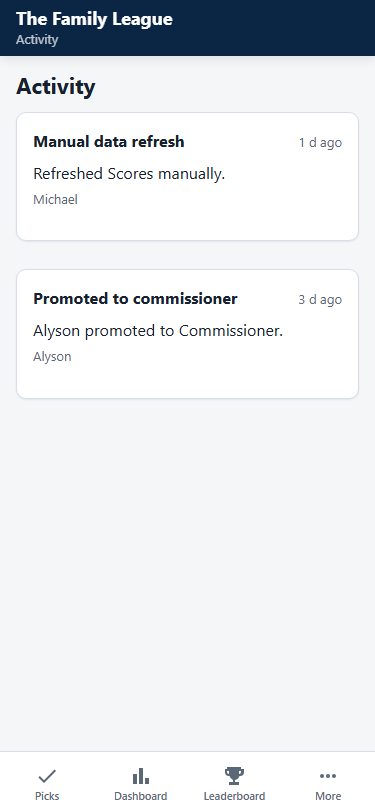
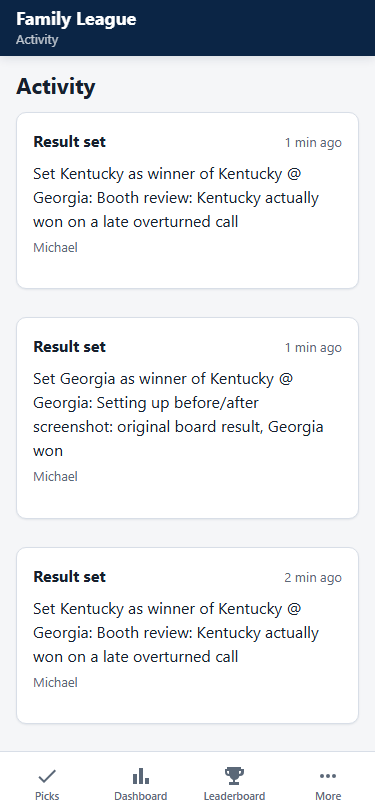
docs+fix(web): P5-02 error mapping, real-endpoint verification (P5-05)
Add GameNotFound to the friendly 404 mapping on both the corrections
menu and the Data status Void action now that P5-02's real endpoints
have merged. Verified end-to-end against the real Api: overriding a
locked week's result flips the real /weeks/{week}/leaderboard ranking
immediately, with no separate rescore step, confirming P5-01's
ResultOverriddenScoringHandler fires synchronously off the domain
event P5-02 raises. Replaces the fake-based audit/leaderboard
screenshots with real ones and adds a real before/after leaderboard
pair plus a real "Result set" week-view screenshot. Records D-148..
D-150 and updates STATUS.md/AGENT-NOTES.md accordingly.

diff --git a/Implementation/STATUS.md b/Implementation/STATUS.md
@@ -35,7 +35,7 @@ Live task board. The agent that owns a task updates its row. States: Todo, In Pr
 | P5-02 | Corrections: override result and void | sonnet-p5-02 | Sonnet | Done | p5-02-corrections | `Domain/Scoring/CorrectionRuleViolation` (`NotLocked`/`AlreadyVoided` 409, `TeamNotInGame`/other 400, `GameNotFound` 404) + `Api/Endpoints/CorrectionRuleViolationResults`. `Infrastructure/Services/CorrectionService` (`OverrideResultAsync`, `VoidGameAsync`, `GetAuditAsync`): both mutations load the locked row (`WeekGameSetLockGuard.IsFrozen`), write the `WeekGameSetGames` column + an `AuditLog` row (before/after/reason/scores, plus `gameId` in `Details` so the audit reader can resolve team names without a second table), `SaveChangesAsync`, then raise `ResultOverridden`/`GameVoided` (P5-01's handlers already subscribed, rescoring happens there — no scoring code added here). `GetAuditAsync` builds each `AuditEntry.Summary` per `AuditAction` (batched game-name and member-name lookups, JSON-parsed `Details`), covering every action type written so far (`ResultOverride`/`GameVoided`/`GameManuallyAdded`/`GameManuallyRemoved`/`MemberRemoved`/`RolePromoted`/`RoleDemoted`/`RoleTransferred`/`ManualRefresh`), "System" when the actor membership is missing. `Api/Endpoints/CorrectionEndpoints.cs` (`POST .../gameset/games/{gameId}/override-result`, `/void`, `GET /api/leagues/{leagueId}/audit`) with `OverrideResultRequestValidator`/`VoidGameRequestValidator` (Reason 1..200). Decision (documented, not a bug): a second identical override is not a no-op — it writes a fresh audit row and re-raises the event, since the rescore it triggers is idempotent anyway (D-143). `GameNeedsVoidReviewHandler : IDomainEventHandler<GameNeedsVoidReview>` added purely to quiet the dispatcher's "no handler" log — P3-04's `ListNeedsVoidReviewAsync`/`GET /api/admin/data-status` remain the mechanism, unchanged. `NeedsReviewGameDto` gained additive optional `WeekGameSetId`/`GameSetGameId` (both branches of `AdminEndpoints.GetDataStatusAsync`'s `NeedsReview` list now populate them) so P5-05's one-tap Void has the ids it needs without a second lookup. New tests: `OverrideTests` (8), `VoidTests` (7), `CorrectionsAuthMatrixTests` (3) — all against real HTTP endpoints, `ScoredWeekScenario` + `SaturdayPoller` snapshot 6 (own throwaway `SqlTestDatabase`, like `ScoringServiceTests`). `dotnet build` 0 warnings, `dotnet test` 737/737 green post-merge (292 Domain.Tests + 445 Api.Tests), `dotnet format --verify-no-changes` clean. Merged `main` through 559cebb (P5-04 leaderboard UI, P6-02 review fixes) — two conflicts, both append-only (`DECISIONS.md`/`STATUS.md` row/decision numbering), resolved by keeping both sides' content. Three hot-spot rows below. Opus review pending. |
 | P5-03 | Standings and leaderboard queries | | Opus | Todo | | |
 | P5-04 | Leaderboard UI | sonnet-p5-04 | Sonnet | Done | p5-04-leaderboard-ui | `Pages/Leaderboard/{Season,WeekPage,Grid}.razor` (routes: `/leagues/{id}/leaderboard`, `/leagues/{id}/weeks/{week}/leaderboard`, `/leagues/{id}/weeks/{week}/grid`) built against new `Web/Services/ILeaderboardApi`/`LeaderboardApi` (+ `Fakes/FakeLeaderboardApi`, D-136) — **P5-03's real endpoints have not merged**, so all screenshots are against the fake, same as P4-03/P6-03's own notes for their pages. New reusable `Components/`: `TrendArrow`, `WeekNav`, `PickGrid` (pinned first column + sticky header, D-137). Reused `ILeaguesApi.GetLeagueWeeksAsync` (P4-03's route) for week nav; `FakeLeaguesApi`'s implementation now delegates to `FakeLeaderboardApi.BuildLeagueWeeks()` (resolved a merge conflict against P4-03's simpler version — see D-136 for why it is safe). `BottomTabBar`'s Leaderboard tab already routed to `/leagues/{id}/leaderboard` from P1-02, so no wiring change was needed there. `dotnet build` 0 warnings (with and without `USE_FAKE_API`), `dotnet test` 719/719 green post-merge (292 Domain.Tests + 427 Api.Tests), `dotnet format --verify-no-changes` clean. Merged `main` through `5fe3182` (P5-01 week scorer, P6-02/P6-03 dashboard, P4-03 picks) mid-task; four additive-shaped conflicts (`DependencyInjection.cs`'s two `#if` branches, `_Imports.razor`'s two `@using` lines, `ILeaguesApi.cs`'s doc comment, `FakeLeaguesApi.GetLeagueWeeksAsync`'s body — the one real semantic choice, D-136) resolved and re-tested; no leftover conflict markers. Screenshots (375px, `document.documentElement.scrollWidth === 375` on every one): `Implementation/screenshots/p5-04-{season,week,grid,grid-scrolled,grid-prelock}-375.png` — `grid-scrolled` shows the pinned "Game" column and matchup text still in place while the member columns scroll underneath (headless Chromium, D-137). **Manual pending (operator): iOS Safari pinned-column check** — no physical device or simulator in this environment; the sticky-positioning CSS includes the `-webkit-sticky` fallback and no ancestor `overflow` sits between the scroll container and the pinned cells, and the headless-Chromium mid-scroll screenshot above is the best available substitute. Steps for the operator: open the grid page on an iPhone in Safari, scroll the grid horizontally, and confirm the "Game" column (matchup + result) stays pinned on the left edge throughout. |
-| P5-05 | Commissioner corrections UI and audit view | sonnet-p5-05 | Sonnet | Done with notes | p5-05-corrections-ui | New `Web/Services/ICorrectionsApi`/`CorrectionsApi` (+ `Fakes/FakeCorrectionsApi`, D-143) for the override-result/void/audit routes in `03-API-Contracts.md` (Feature 06) — **P5-02's real server endpoints have not merged** (confirmed: no `override-result`/`void`/`audit` routes anywhere under `src/NcaafPickEm.Api`), so this task builds and screenshots entirely against the fake, same pattern as P4-03/P5-04/P6-03's own notes for their pages when their server side landed later. `Pages/GameSets/WeekGames.razor` (commissioner, P3-05's page): once `WeekGameSetResponse.IsLocked`, each game's trailing slot swaps to either a "Voided" pill, a "Result set: <winner>" pill, or a "Correct" button opening a `BottomSheet` menu with "Set result" (two `TeamPickButton`s + a 1..200-char reason, `TeamPickButton` reused as-is) and "Void game" (reason only, destructive). Both actions refetch the week set on success so the row updates immediately without a page reload (screenshotted before/after: `p5-05-week-corrections-375.png` shows the open Correct menu, `p5-05-leaderboard-after-override-375.png` shows the same row reading "Result set: Georgia" right after confirming — this is the week view, not P5-04's leaderboard page, because a correction changing the *real* scored leaderboard needs P5-02's endpoints to exist, which they do not yet; see the open item below). New `Pages/Audit/AuditPage.razor` at `/leagues/{id}/audit` (all members, not commissioner-gated): newest-first cards with a humanised action label (`AuditAction` enum name -> "Result set"/"Game voided"/etc.), relative time (absolute on hover via `title`), actor, and the server-built summary; empty state when there is nothing yet. `Pages/Admin/DataStatusPage.razor`'s needs-review rows get a one-tap "Void" action (`BottomSheet`, reason required, red confirm) plus a "View activity log" link to the league's audit page; `FakeAdminApi` now takes `FakeGameSetStore` so its seeded needs-review row (Iowa State/Kansas tie) shares the same `GameId` the store's `VoidGame` operates on, and disappears from the list once voided (screenshotted: `p5-05-needs-review-void-375.png`). `LeagueHome` gets an "Activity" link next to Invites/Members. `FakeGameSetStore.OverrideResult`/`VoidGame` map to the same 409 `NotLocked`/`AlreadyVoided`/400 `TeamNotInGame` titles the real endpoints will use (per `03-API-Contracts.md`), and both the week view and Data status page translate those titles to friendly messages rather than showing the raw title. `dotnet build` 0 warnings both configs (plain and `-p:DefineConstants=DEBUG%3BTRACE%3BUSE_FAKE_API`), `dotnet test` 755/755 green post-merge (306 Domain.Tests + 449 Api.Tests — no Web test project exists in this repo, matching every prior Blazor task), `dotnet format --verify-no-changes` clean. Screenshots (375x812, `document.documentElement.scrollWidth === 375` on every one, taken against a published, hosted real Api with a temporarily fake-enabled Web build per D-044/D-127's `USE_FAKE_API_SCREENSHOT_TEMP` escape hatch, reverted before this commit): `Implementation/screenshots/p5-05-{week-corrections,set-result-sheet,audit,needs-review-void,leaderboard-after-override}-375.png`. Merged `main` through 095238e (P5-03/P5-04 leaderboard landing); two additive conflicts (`DependencyInjection.cs`'s two `#if` branches, `_Imports.razor`'s `Leaderboard`/`Scoring` usings, both kept side by side) resolved and re-tested, no leftover conflict markers. Hot-spot rows below (`_Imports.razor`, `DependencyInjection.cs`, both own commits). Also performed the P6-03 real-endpoint dashboard verification hand-off — see that row's added note below. D-143..D-145 logged. |
+| P5-05 | Commissioner corrections UI and audit view | sonnet-p5-05 | Sonnet | Done | p5-05-corrections-ui | New `Web/Services/ICorrectionsApi`/`CorrectionsApi` (+ `Fakes/FakeCorrectionsApi`, D-149) for the override-result/void/audit routes in `03-API-Contracts.md` (Feature 06). Built initially against the fake (P5-02's server endpoints had not merged yet — same pattern as P4-03/P5-04/P6-03's own notes), then **P5-02 merged mid-task and this branch switched to verifying the real endpoints** (see the open item below and D-148/D-150). `Pages/GameSets/WeekGames.razor` (commissioner, P3-05's page): once `WeekGameSetResponse.IsLocked`, each game's trailing slot swaps to either a "Voided" pill, a "Result set: <winner>" pill, or a "Correct" button opening a `BottomSheet` menu with "Set result" (two `TeamPickButton`s + a 1..200-char reason, `TeamPickButton` reused as-is) and "Void game" (reason only, destructive). Both actions refetch the week set on success so the row updates immediately without a page reload. New `Pages/Audit/AuditPage.razor` at `/leagues/{id}/audit` (all members, not commissioner-gated): newest-first cards with a humanised action label (`AuditAction` enum name -> "Result set"/"Game voided"/etc.), relative time (absolute on hover via `title`), actor, and the server-built summary; empty state when there is nothing yet. `Pages/Admin/DataStatusPage.razor`'s needs-review rows get a one-tap "Void" action (`BottomSheet`, reason required, red confirm) plus a "View activity log" link to the league's audit page (D-150: calls straight through on `row.GameId`, the route's actual param, not P5-02's additive `WeekGameSetId`/`GameSetGameId`); `FakeAdminApi` now takes `FakeGameSetStore` so its seeded needs-review row (Iowa State/Kansas tie) shares the same `GameId` the store's `VoidGame` operates on, and disappears from the list once voided. `LeagueHome` gets an "Activity" link next to Invites/Members. Friendly 409/400/404 messages (`NotLocked`/`AlreadyVoided`/`TeamNotInGame`/`GameNotFound`) on both the week view and Data status page. `dotnet build` 0 warnings both configs (plain and `-p:DefineConstants=DEBUG%3BTRACE%3BUSE_FAKE_API`), `dotnet test` 771/771 green post-merge (306 Domain.Tests + 465 Api.Tests — no Web test project exists in this repo, matching every prior Blazor task), `dotnet format --verify-no-changes` clean. **Real-endpoint verification of "override changes the leaderboard immediately"**: published `NcaafPickEm.Api` plain-Release against fixtures, dev-logged-in as `michael`, hand-built week 7's set (default rules were empty; `POST .../gameset/games` once), seeded two members' picks and settled their `WeekSubmissions.Status=Locked` via `sqlcmd` (the real pick-mutation routes 409 `WeekNotCurrent` today per D-121's clock-drift note — real wall clock is week 3, fixture week 7 is anchored to 2026-10-17), set `WeekGameSets.LockedUtc` via `sqlcmd`, then called the real `POST .../override-result` three times in a row (Kentucky, then Georgia, then Kentucky again) and re-read `GET .../weeks/7/leaderboard` after each: the ranking flips **Alyson 10/Michael 0 <-> Michael 10/Alyson 0** every time, immediately, with no separate rescore step — confirms P5-01's `ResultOverriddenScoringHandler` really does fire synchronously off the domain event P5-02 raises. Screenshotted the real `/leagues/{id}/weeks/7/leaderboard` page before and after (`p5-05-leaderboard-{before,after}-override-375.png`) and the real audit trail (`p5-05-audit-375.png`, all real `ResultOverride`/`GameManuallyAdded` rows) and the real week view showing "Result set: Kentucky" (`p5-05-week-result-set-real-375.png`). The interactive-sheet screenshots (`p5-05-week-corrections-375.png` with the Correct menu open, `p5-05-set-result-sheet-375.png`, `p5-05-needs-review-void-375.png`) are against the fake, taken against a published, hosted real Api with a temporarily fake-enabled Web build per D-044/D-127's `USE_FAKE_API_SCREENSHOT_TEMP` escape hatch (reverted before committing) — a second real game could not be added to demonstrate the "Correct" button's pre-override state against real data because the week was already locked by the time P5-02 landed (adding a game to a locked week is correctly refused, 409). Merged `main` twice (through 095238e for P5-03/P5-04 leaderboard, then through 7e57e26 for P5-02 corrections); all conflicts additive (`DependencyInjection.cs`'s `#if` branches, `_Imports.razor`'s usings), both kept, no leftover conflict markers. Hot-spot rows below (`_Imports.razor`, `DependencyInjection.cs`, both own commits). Also performed the P6-03 real-endpoint dashboard verification hand-off — see that row's added note below. D-148..D-150 logged. |
 | P6-01 | Influence calculator (domain) | opus-p6-01 | Opus | Done | p6-01-influence-calculator | `Domain/Dashboard/`: `InfluenceCalculator.Calculate` + records `InfluenceRequest`/`InfluenceGame`/`InfluenceMember`/`InfluencePick` in, `InfluenceResult`/`InfluenceGameResult` out; new `Shared/Enums/InfluenceOutcome` (D-014). **Shared `Domain/Scoring/WinnerResolver`** (override > higher score when Final > none) written here because P5-01 has not started; `GameSetGameDtoMapper` and `LiveScoreApplyService.DetermineWinner` refactored to delegate to it, behaviour-preserving, whole Api suite still green — **P5-01/P5-02 must call it, not re-derive** (D-098, AGENT-NOTES "Game sets and points"). 36 new tests (`InfluenceCalculatorTests` 18 incl. the Overview worked example asserted from `influence-example.json` for both Dance and Alyson, `WinnerResolverTests` 18). `dotnet build` 0 warnings, `dotnet test` 518/518 green (239 Domain in 0.2 s + 279 Api), `dotnet format --verify-no-changes` clean. `04` section 6 rewritten to the real API; `03` `DashboardGameDto` line gains `HomePickers`/`AwayPickers` + the enum's home; D-095..D-099 logged; AGENT-NOTES "Dashboard" documents how P6-02 builds the request (the "active at lock" query is the whole rule). No merge of `main` needed (branched at d177a5c, nothing else touched these files). |
 | P6-02 | Dashboard endpoint | sonnet-p6-02 | Sonnet | Done | p6-02-dashboard-endpoint | `Infrastructure/Services/DashboardService.GetAsync(viewer, week, ct)`: reuses `GameSetService.GetWeekGameSetAsync` for games (also runs `WeekRangeGuard`), one query for members with a `WeekSubmissions` row for the set (`MembersActiveAtLock`), one query for `Picks` on the set; builds `InfluenceRequest`, calls `InfluenceCalculator.Calculate`, joins the result back onto the `GameSetGameDto`s by `GameSetGameId`. "Locked" = `WeekGameSets.LockedUtc != null` only, never the `LockAtUtc`-passed instant (D-116) — before that, `IsAvailable=false` with `LockAtUtc`/`LockAtEasternDisplay` and empty lists, including the no-set-yet case (`GetWeekGameSetAsync` already answers that shape). `Api/Endpoints/DashboardEndpoints.cs` (`MapDashboardEndpoints`, `GET /api/leagues/{leagueId}/weeks/{week}/dashboard`, `RequireLeagueMember()`) 400s any query string at all (title `UnsupportedQueryParameter`, D-119) rather than accepting/ignoring `asMember`. New `DashboardTests` (10: no-set-yet, past-`LockAtUtc`-but-job-hasn't-run, the Overview worked example for Dance and Alyson via a new `DashboardWeekScenario` test helper that seeds all five fixture members and the two fixture games (700001/700002) and locks through the real `LockWeekJob` — not by hand-setting `LockedUtc` — stale-scores propagation via a new `FakeLiveScoreHealth`, Won/Lost + `PointsSoFar` after a Final score, a post-lock joiner's own dashboard (no pick anywhere, D-118), a former member still appearing flagged, `?asMember=` 400, and the member/non-member/anonymous triple via `AuthMatrix.RunAsync` with no commissioner route). `dotnet build` 0 warnings, `dotnet test` 686/686 green (270 Domain.Tests + 416 Api.Tests) after merging `main` (through d02598a: P4-02 lock job, P4-04, P7-03 review fixes — `DashboardService`'s "locked" semantics were already correct against the real `LockWeekJob`, no logic change needed), `dotnet format --verify-no-changes` clean. D-116..D-119 logged. Two hot-spot rows below. Opus review pending.  Opus review merged (D-135): roster limited to Locked/Incomplete WeekSubmissions rows (a member who left before lock was being named); tests de-tautologised. Open: same roster gap in PickService.GetAllPicksAsync handed to P5-03. |
 | P6-03 | Dashboard UI | sonnet-p6-03 | Sonnet | Done | p6-03-dashboard-ui | `Pages/Dashboard/DashboardPage.razor` at `/leagues/{id}/weeks/{week}/dashboard` (built and screenshotted before P6-02 landed on `main`, against the frozen contract in `03-API-Contracts.md`/`Shared/Contracts/Dashboard/*` and the fake, per orchestrator guidance; P6-02 has since merged — see the real-endpoint verification note below, added after this branch merged `main` through 69b100e): pre-lock countdown card (`LockTime`'s new `ShowCountdown` mode, D-045 extended not duplicated) + "Dashboard opens at kickoff"; post-lock header (`StatCard` x2, `StaleBanner` when `ScoresMayBeStale`), `DashboardGameCard` per game in server order (matchup with the viewer's pick underlined, status line - kickoff/live-with-clock/final -, Won/Lost tint, `MemberChips` for opposite/no-pick/both-sides), collapsed `CollapsibleSection` "Everyone agrees (N)". New client `Web/Services/IDashboardApi`/`DashboardApi` + `Fakes/FakeDashboardApi` (D-044/D-059 gate), the fake seeded with the Overview worked example (Michael/Alyson/Dance/Alex/Daniel, Michigan-Texas, Maryland-Rutgers) plus two games this task added for "everyone agrees" and "no pick, both sides" (the worked example alone doesn't exercise either); `?viewer=alyson|michael|alex|daniel` (default Dance) and `?state=prelock|live|final|stale` fake flags, read client-side only and never sent to the real endpoint (D-119's note). Auto-refresh: a `PeriodicTimer` ticks every 60 s for the page's life once any game is not Final; new `wwwroot/js/visibility.js` (Page Visibility API, `DotNetObjectReference` callback) reports tab visibility, and a tick while hidden is skipped outright (no fetch/re-render/reload) rather than tearing the timer down and recreating it - loop stops for good once every game (incl. "Everyone agrees") is Final; a small "Updated h:mm" line shows the last refresh. `dotnet build` 0 warnings both configs (plain and `-p:DefineConstants=USE_FAKE_API`), `dotnet test` green post-merge, `dotnet format --verify-no-changes` clean. **Screenshots taken against a published, hosted (real) Api, fake data layer**: `dotnet publish src/NcaafPickEm.Web -c Release -p:DefineConstants=USE_FAKE_API_SCREENSHOT_TEMP` (a temporary `\|\| USE_FAKE_API_SCREENSHOT_TEMP` added to `DependencyInjection`'s guard, reverted in the same working session before committing - D-044's escape-hatch pattern) then `dotnet publish src/NcaafPickEm.Api -c Release -p:BuildProjectReferences=false` so the Api's publish step reuses that exact Web build instead of silently rebuilding it plain-Release (confirmed by diffing `_framework/dotnet.js` byte sizes between the two publish outputs - **`-p:BuildProjectReferences=false` is the fix; copying `wwwroot` after the fact is not enough** because `MapStaticAssets()`'s `*.staticwebassets.endpoints.json` manifest is generated at Api-publish time and pins Content-Length/ETag per file, so a same-named-but-different file dropped in afterward serves truncated at the old length, D-123, folded into AGENT-NOTES). Ran the published Api against LocalDB, dev-logged-in as `michael`, drove headless Edge via `puppeteer-core`/CDP for all four states plus a click-to-expand check on "Everyone agrees" (confirmed the hidden game appears). Found and fixed one real bug this way: `Q@period` rendered as the literal text "Q@period" instead of interpolating (needed `@(period)`). D-120..D-123 logged. Merged `main` twice — first through d02598a (P4-02 lock job, Leaderboard/Scoring contracts, no conflicts), then through 69b100e (P6-02 landing; conflicts only in `DECISIONS.md`/`STATUS.md` from both tasks numbering/rowing independently, resolved by renumbering this branch's decisions to D-120..D-123 after P6-02's D-116..D-119 and combining the two P6-03/P6-02 board rows). Hot-spot rows below (`_Imports.razor`, `DependencyInjection.cs`, both small/own commits). **Real-endpoint verification by P5-05 (2026-09-19): done.** Published `NcaafPickEm.Api` plain-Release (real, non-fake client), ran it against a fresh LocalDB with `Providers__ReferenceData=Fixture`/`Seed__DemoLeague=true`, dev-logged-in as `michael`. Today's real wall clock is week 3 (D-121's clock-drift note applies again: the fixture schedule's only games are anchored to 2026-10-17, which is week 7), so week 7 had no game set yet — generated one by hand (`POST .../gameset/games` x4, since the league's default rules were empty) and set `WeekGameSets.LockedUtc` directly via `sqlcmd` (the orchestrator's suggested shortcut for a job that will not naturally tick until the real clock reaches October). `GET .../weeks/7/dashboard` then answered `IsAvailable=true` against the real endpoint; loaded `/leagues/{id}/weeks/7/dashboard` in headless Edge (real Web build, real Api) and confirmed it rendered live picks correctly (`Implementation/screenshots/p6-03-real-endpoint-live-375.png`). `POST /api/admin/refresh/Scores` did not update scores (it polls *today's* Eastern date, 2026-09-19, not the fixture's 2026-10-17 — the same clock-drift gap, not a client bug), so to exercise the Final render, two games' `Games.Status`/scores were set to Final directly via `sqlcmd`; the real endpoint then reported `Final`, and the page rendered "Final 20-27" / "Final 17-14" correctly, both teams and scores in the right order (`p6-03-real-endpoint-final-375.png`) — no repeat of the P6-03 "`Q@period`" bug and no new client bug found in `DashboardApi`/`DashboardPage` against the real payload shape. No client code changes were needed. Opus review still pending. |

diff --git a/Implementation/AGENT-NOTES.md b/Implementation/AGENT-NOTES.md
@@ -237,3 +237,6 @@ Practical facts every implementation agent needs. Read after `00-README.md`, `05
 - **Dashboard auto-refresh** (P6-03, D-126): a `PeriodicTimer` on a 60 s period runs for the page's lifetime once any game is not Final; `wwwroot/js/visibility.js` (Page Visibility API, `DotNetObjectReference` callback, no inline script) reports `document.visibilityState` changes, and a tick that lands while hidden is skipped outright — no fetch, no re-render, no reload, and the timer itself is never torn down/recreated across the JS callback. The loop stops for good once every game (`Games` and `EveryoneAgrees` both) is Final. `Services/VisibilityInterop.VisibilityState` is the one JS-interop DTO the module returns (explicit `[JsonPropertyName]`, same discipline as `PushInterop.cs`).
 - **Leaderboard pages** (P5-04): `Pages/Leaderboard/Season.razor` (`/leagues/{id}/leaderboard`), `WeekPage.razor` (`/leagues/{id}/weeks/{week}/leaderboard` — note the filename: a Razor component's class cannot share its enclosing type's name, so a `[Parameter] public int Week` rules out a file named `Week.razor`), `Grid.razor` (`/leagues/{id}/weeks/{week}/grid`). New `Web/Services/ILeaderboardApi`/`LeaderboardApi` (+ `Fakes/FakeLeaderboardApi`, D-136) for the season/week/grid routes — **P5-03's real endpoints have not merged**, so these pages are built and screenshotted against the fake only; verify the real endpoint shapes against `ILeaderboardApi` once P5-03 lands. New `Components/`: `TrendArrow` (`StandingsTrend` -> colored triangle/dash/nothing), `WeekNav` (prev/next chips gated on `LeagueWeek.HasGameSet`, a jump to `IsCurrent`; also used by the Grid page), `PickGrid` (the pinned-column/sticky-header table, D-137 — reuse it rather than building a second grid; do not add `overflow` to anything between its `.pick-grid-scroll` div and the sticky cells). `ILeaguesApi.GetLeagueWeeksAsync` (P4-03's route) is reused for both pages' week nav.
 - **`GetLeagueWeeksAsync`'s fake now comes from `FakeLeaderboardApi.BuildLeagueWeeks()`, not `FakeLeaguesApi`'s own inline table** (D-136, supersedes P4-03's original "only the current week has a game set" shape): P5-04 needed a former member, a late joiner, all four `StandingsTrend` states, and a not-yet-locked future week, none of which the simpler table could produce. Confirmed safe for the Picks page: `PicksPage.razor`'s read-only/locked logic never reads `LeagueWeek.IsLocked`/`IsComplete`, only `MyPicksResponse.IsLocked` and the current-week check, and `FakePicksApi` already answers any week outside its own `PastWeek`/current-week cases with an empty game list rather than throwing.
+- **Corrections UI and audit page** (P5-05): new `Web/Services/ICorrectionsApi`/`CorrectionsApi` (+ `Fakes/FakeCorrectionsApi`, D-149) for the override-result/void/audit routes — this task started while P5-02's server side was still in flight and finished against it once it merged mid-task, so the client was verified against both. `Pages/GameSets/WeekGames.razor` (P3-05's page): once the week set is locked, each `GameRow`'s trailing slot is one of three mutually-exclusive states — a "Voided" pill, a "Result set: <winner>" pill, or a "Correct" `BottomSheet` menu ("Set result": two `TeamPickButton`s + a 1..200-char reason; "Void game": reason only, destructive) — reused verbatim from Picks' `TeamPickButton`. Both actions call `ICorrectionsApi` then immediately `GetWeekGameSetAsync` to refresh the row (D-148: the correction routes return the single updated `GameSetGameDto`, matching the points-override route's shape, not the whole set). New `Pages/Audit/AuditPage.razor` at `/leagues/{id}/audit` — **member-visible, not commissioner-gated**, unlike every other page under `Pages/Admin`/`Pages/GameSets` config routes — newest-first cards, a client-side humanising switch over the `AuditAction` enum name (`"ResultOverride"` -> "Result set", etc., since `AuditEntry.Action` is a raw enum name string per 03-API-Contracts.md, not already humanised server-side), relative time with the absolute instant on `title` hover. `Pages/Admin/DataStatusPage.razor`'s needs-review rows get a one-tap Void (D-150: calls `VoidGameAsync` with `NeedsReviewGameDto.GameId` directly — the real route's `{gameId}` param — not the newer additive `WeekGameSetId`/`GameSetGameId` fields P5-02 also added) plus a link to the league's audit page; `Fakes/FakeAdminApi` now takes `FakeGameSetStore` as a constructor dependency so its seeded needs-review row and the store's `VoidGame` agree on one `GameId`.
+- **Friendly correction error messages**: both `WeekGames.razor` and `DataStatusPage.razor` translate the raw `LeaguesApiException.Message` (which is the ProblemDetails **title**, e.g. `"NotLocked"`) to a sentence before showing it in an `ErrorBanner` — `NotLocked`/`AlreadyVoided`/`TeamNotInGame`/`GameNotFound`. Any future page calling `ICorrectionsApi` should map the same four titles rather than showing the raw enum-shaped string.
+- **Real-endpoint verification, overriding really does move the leaderboard**: with P5-02 merged, calling the real `POST .../override-result` three times in a row against a hand-built week 7 (default rules were empty, so one game was added manually; two members' `WeekSubmissions` rows were inserted directly via `sqlcmd` and set to `Status=Locked`, since a real pick-mutation route still 409s `WeekNotCurrent` today per D-121 — the real wall clock is week 3, the fixture schedule's only games are anchored to week 7/2026-10-17) flips `GET .../weeks/7/leaderboard`'s ranking every time, with no separate "rescore" call needed — confirms `CorrectionService` raising `ResultOverridden`/`GameVoided` and P5-01's already-subscribed scoring handlers running synchronously off that event (AGENT-NOTES "Domain events": raise, save, dispatch, in that order) is wired correctly end to end, not just unit-tested. A membership's `WeekSubmissions` row must be `Status = Locked` (not `InProgress`/`Submitted`) for `WeekScorer` to include it — inserting the row with the wrong status silently produces an empty leaderboard with no error, the first thing to check if a manually-seeded scoring scenario shows zero rows.

diff --git a/Implementation/DECISIONS.md b/Implementation/DECISIONS.md
@@ -437,3 +437,12 @@ D-146  2026-09-19  P5-02  `ResultOverride`/`GameVoided` audit `Details` gain a `
 
 D-147  2026-09-19  P5-02  `NeedsReviewGameDto` gains two additive, optional (default `null`) fields, `WeekGameSetId` and `GameSetGameId`, populated on both branches of `AdminEndpoints.GetDataStatusAsync`'s combined `NeedsReview` list.
        Rationale: P3-04's `ListNeedsVoidReviewAsync` already carries both ids on its own `NeedsVoidReviewItem`; only the DTO the admin endpoint actually serializes was missing them. The task card asks for the data-status page to drive "one-tap Void" (P5-05's UI work) directly from this list, which needs the `WeekGameSetGames.Id` and its route's `{week}`/`{gameId}` — `GameId`/`Week`/`LeagueId` were already on the DTO, so only the row id itself (`GameSetGameId`) and its `WeekGameSetId` were missing. Optional/defaulted keeps every existing positional construction (`Fakes/FakeAdminApi.cs`) compiling unchanged.
+
+D-148  2026-09-19  P5-05  `ICorrectionsApi`'s override-result/void routes return `GameSetGameDto` (the updated single game), not a bare `204` or the whole `WeekGameSetResponse`; the client always follows a successful correction with its own `GET .../gameset` to refresh the row list.
+       Rationale: 03-API-Contracts.md left the return shape for these two routes implicit until P5-02 landed and confirmed `GameSetGameDto` (matching the existing `PUT .../points` route's shape, a single-game mutation returning that one game); this decision was taken from the client side before the server contract note existed and turned out to match. A second round trip for the refresh is a deliberate simplicity trade for P5-05's page (it already refetches after add/remove/point-override), not a performance concern at this league size.
+
+D-149  2026-09-19  P5-05  `FakeGameSetStore.OverrideResult`/`VoidGame` gate on the store's own `IsLocked && week == Week` check (the same test `RequireUnlocked` already used for add/remove), raising the identical `409 NotLocked`/`409 AlreadyVoided`/`400 TeamNotInGame` titles the real P5-02 endpoints use, so the client's friendly-message mapping is exercised the same way against both.
+       Rationale: keeps the fake a faithful stand-in for screenshotting and manual testing before P5-02 merged, and (since it turned out to merge mid-task) continues to exercise the same error-mapping code path in `USE_FAKE_API` builds afterward — no behavior fork between the two.
+
+D-150  2026-09-19  P5-05  The Data status page's needs-review "Void" action calls `ICorrectionsApi.VoidGameAsync(row.LeagueId, row.Week, row.GameId, reason)` directly (the `Games.Id` route P5-02 shipped), not through `row.WeekGameSetId`/`row.GameSetGameId` (P5-02's D-147 additive fields).
+       Rationale: the real route is `.../weeks/{week}/gameset/games/{gameId}/void` where `{gameId}` is `Games.Id` — `NeedsReviewGameDto.GameId` already carried that before D-147 added the two extra ids, so no client change was needed once P5-02 merged. The two additive ids exist for a future admin surface that needs the `WeekGameSetGames` row directly without re-deriving it; P5-05's one-tap Void does not.
